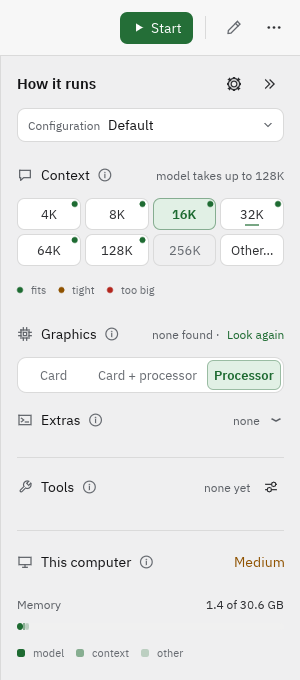
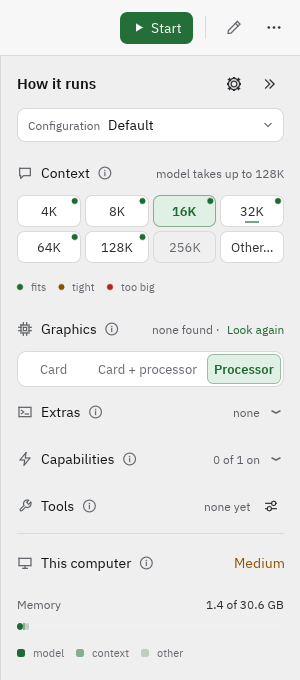
Panel: Tools under Capabilities with no line between them, sections a little closer; Help pictures retaken
With Capabilities (C223) the stopped panel ran past the foot of the window's first size (980 x 680): Tools was only
there with scrolling. Tools now follows Capabilities with no line (both are the chat's), and a section's head has 6
and 3 points round it (was 8 and 4), so that it all shows again over This computer.

Help pictures retaken from this build (the panel with Capabilities; the others differ in a port or the reply's
words), and the marks of the panel's picture moved with its sections.

diff --git a/crates/quickai/src/app/inspector.rs b/crates/quickai/src/app/inspector.rs
@@ -95,9 +95,9 @@ impl App {
             let capabilities = ui.scope(|ui| self.show_capabilities(ui)).response.rect;
             super::help::mark_spot(ui, super::help::Spot::Capabilities, capabilities);
         }
-        // the tools are the chat's: an engine that does not chat (ComfyUI) has none to show
+        // the tools are the chat's: an engine that does not chat (ComfyUI) has none to show. Under Capabilities, with no line
+        // between them (C224): both are the chat's, and with the line Tools went past the foot of the window's first size
         if !self.runs_alone() && self.can_chat() {
-            rule(ui);
             let hover = if self.engine == crate::settings::DEFAULT_ENGINE {
                 "The MCP servers the model can use when you chat here, and in Open Chat UI. QuickAI asks before a tool \
                  runs, unless you turned that off in MCP servers."
@@ -282,7 +282,9 @@ pub(super) fn section_head(
     right: impl FnOnce(&mut egui::Ui),
 ) {
     let p = theme::palette();
-    ui.add_space(8.0);
+    // a little closer than they were (8 and 4 points round them), so that the window's first size still shows Tools under
+    // Capabilities (C224) with no scrolling
+    ui.add_space(6.0);
     ui.horizontal(|ui| {
         ui.set_min_height(24.0);
         let (rect, _) = ui.allocate_exact_size(egui::vec2(16.0, 16.0), egui::Sense::hover());
@@ -296,5 +298,5 @@ pub(super) fn section_head(
         }
         ui.with_layout(egui::Layout::right_to_left(egui::Align::Center), right);
     });
-    ui.add_space(4.0);
+    ui.add_space(3.0);
 }

diff --git a/crates/quickai/src/app/help.rs b/crates/quickai/src/app/help.rs
@@ -581,9 +581,9 @@ const PAGES: &[Page] = &[
             name: "change",
             marks: &[
                 (1, 180.0, 84.0),
-                (2, 126.0, 175.0),
-                (3, 132.0, 334.0),
-                (4, 128.0, 420.0),
+                (2, 126.0, 173.0),
+                (3, 132.0, 329.0),
+                (4, 128.0, 412.0),
                 (5, 240.0, 125.0),
             ],
             ring: None,
